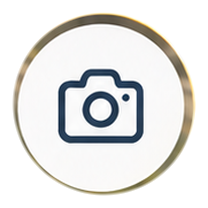
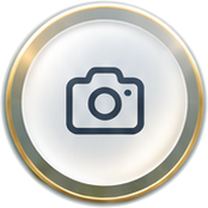
fix: use frozen shared capture button on normal home

diff --git a/app/src/main/java/com/yujian/ai/ui/home/NormalHomeContent.kt b/app/src/main/java/com/yujian/ai/ui/home/NormalHomeContent.kt
@@ -71,9 +71,9 @@ private const val NormalHomeCardY = 596f
 private const val NormalHomeCardWidth = 740f
 private const val NormalHomeCardHeight = 880f
 private const val NormalHomeCtaY = 1495f
-private const val NormalHomeCameraY = 1552f
-private const val NormalHomeCameraSize = 224f
-private const val NormalHomeCameraTouchSize = 232f
+private const val NormalHomeCameraY = 1564f
+private const val NormalHomeCameraSize = 200f
+private const val NormalHomeCameraTouchSize = 208f
 
 /**
  * Real-data Normal Home mapped onto the 1080-wide Frozen authority.

diff --git a/scripts/verify_normal_home_runtime_v1.py b/scripts/verify_normal_home_runtime_v1.py
@@ -19,7 +19,7 @@ BACKGROUND_SHA256 = "5fba741088ea186e898cd3bee5777e35978436f427492e6e6122528ef6a
 
 EXPECTED = {
     "static/scene_base.png": "188593ed13b0fd6b9164aaba8632e783b8534d68",
-    "camera/camera_button_base.png": "7017622172491023276f2092ada4e75e976b1f6b",
+    "camera/camera_button_base.png": "cc653b4478a1749cfa3fc74eb7b830d183db4ee4",
     "camera/camera_gold_rim_mask.png": "2d10713e4ec0a458e88396fdd162102c87239755",
     "camera/camera_breath_glow.png": "cc8ae4ae614072ed00d035eebbb65a40e8af12cf",
     "avatar/guest_avatar.png": "f58549babb41aaedb5ee2590e6d48bceda19d05a",
